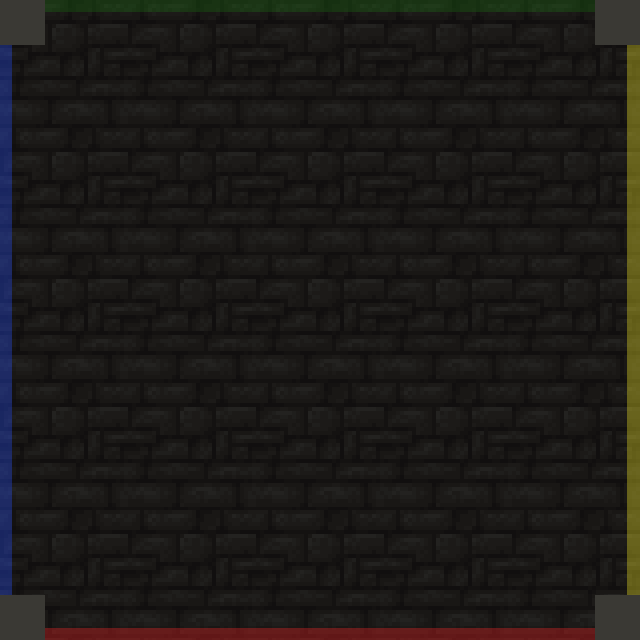
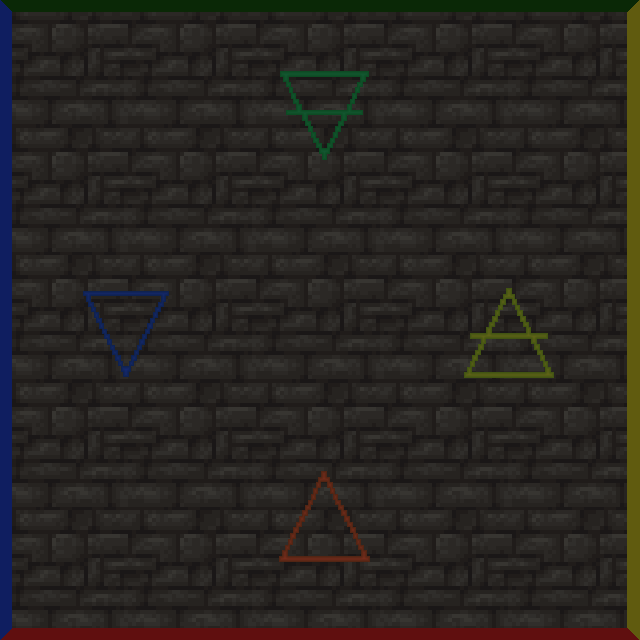
Modifying level background image and increasing ball speed

diff --git a/js/entities/Ball.js b/js/entities/Ball.js
@@ -16,7 +16,7 @@ var Ball = pulse.Sprite.extend({
 
       //Pick random direction
       var newDirection = Math.random()*(2*Math.PI);
-      this.velocity.total = 125;
+      this.velocity.total = 200;
       this.velocity.x = this.velocity.total*Math.cos(newDirection);
       this.velocity.y = this.velocity.total*Math.sin(newDirection);
 
